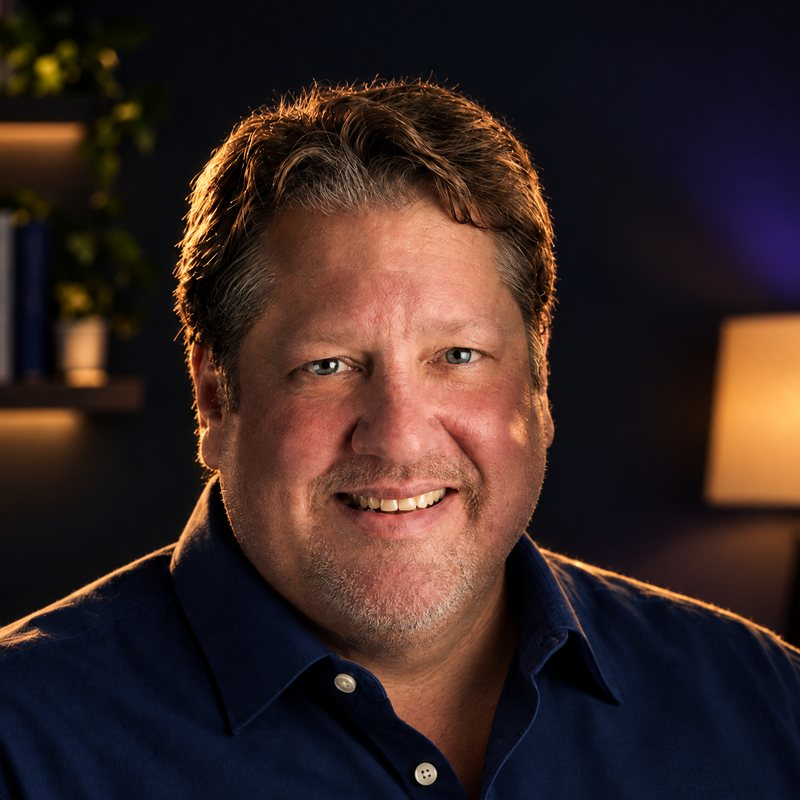
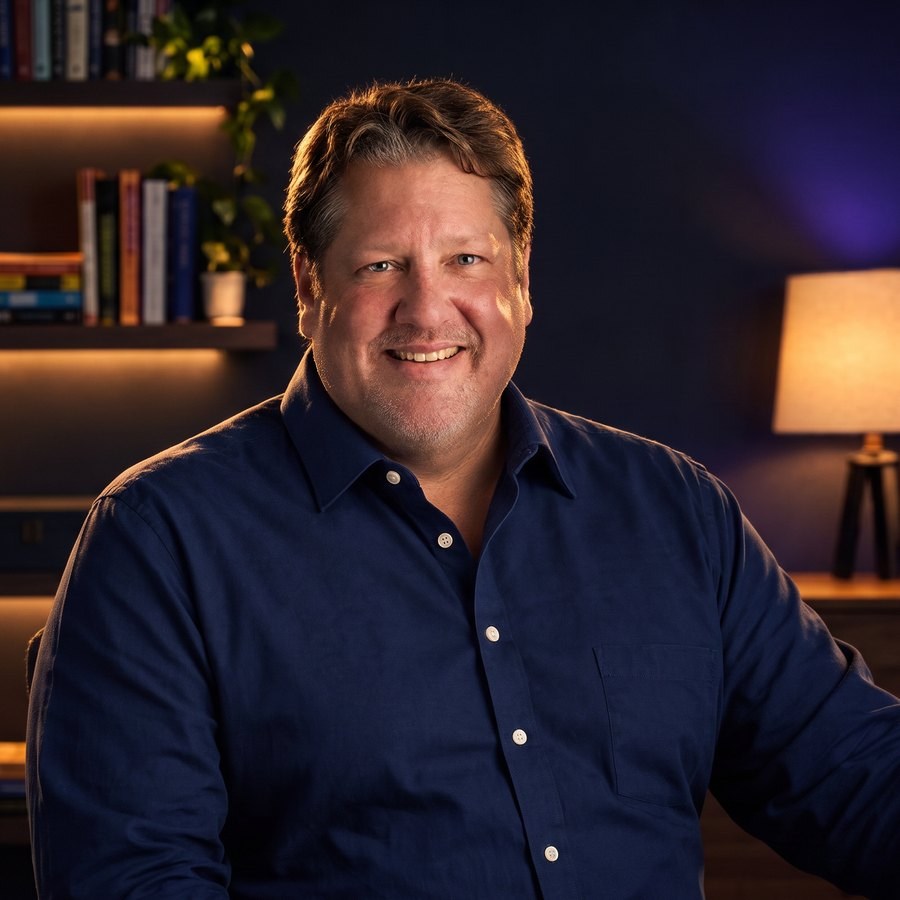
Enlarge home page headshot and widen its crop
Circle grows from 220px to 320px (160px to 220px on mobile), and the
photo is recropped from an extended version to show more of the studio.

Claude-Session: https://claude.ai/code/session_01S3bQDDacJFi2w1L2NP5GTf

diff --git a/css/styles.css b/css/styles.css
@@ -376,8 +376,8 @@ p:last-child { margin-bottom: 0; }
 }
 
 .hero__photo {
-  width: 220px;
-  height: 220px;
+  width: 320px;
+  height: 320px;
   border-radius: 50%;
   border: 4px solid rgba(255,255,255,0.25);
   background: rgba(255,255,255,0.10);
@@ -404,7 +404,7 @@ p:last-child { margin-bottom: 0; }
   width: 100%;
   height: 100%;
   object-fit: cover;
-  object-position: top center;
+  object-position: center;
 }
 
 /* ---------- Program Banner ---------- */
@@ -910,7 +910,7 @@ textarea.form-control { resize: vertical; min-height: 130px; }
   }
 
   .hero__photo-wrap { order: -1; padding-top: 0; padding-bottom: 8px; }
-  .hero__photo { width: 160px; height: 160px; margin: 0 auto; }
+  .hero__photo { width: 220px; height: 220px; margin: 0 auto; }
   .hero__divider { margin: 1rem auto 1.5rem; }
   .hero__bio { margin: 0 auto 2rem; }
   .hero__actions { justify-content: center; }

diff --git a/index.html b/index.html
@@ -61,7 +61,7 @@
           </div>
           <div class="hero__photo-wrap">
             <div class="hero__photo">
-              <img src="assets/images/mike-law-headshot-square.jpg" alt="Dr. Mike Law, Ph.D." width="800" height="800" />
+              <img src="assets/images/mike-law-headshot-square.jpg" alt="Dr. Mike Law, Ph.D." width="900" height="900" />
             </div>
           </div>
         </div>
